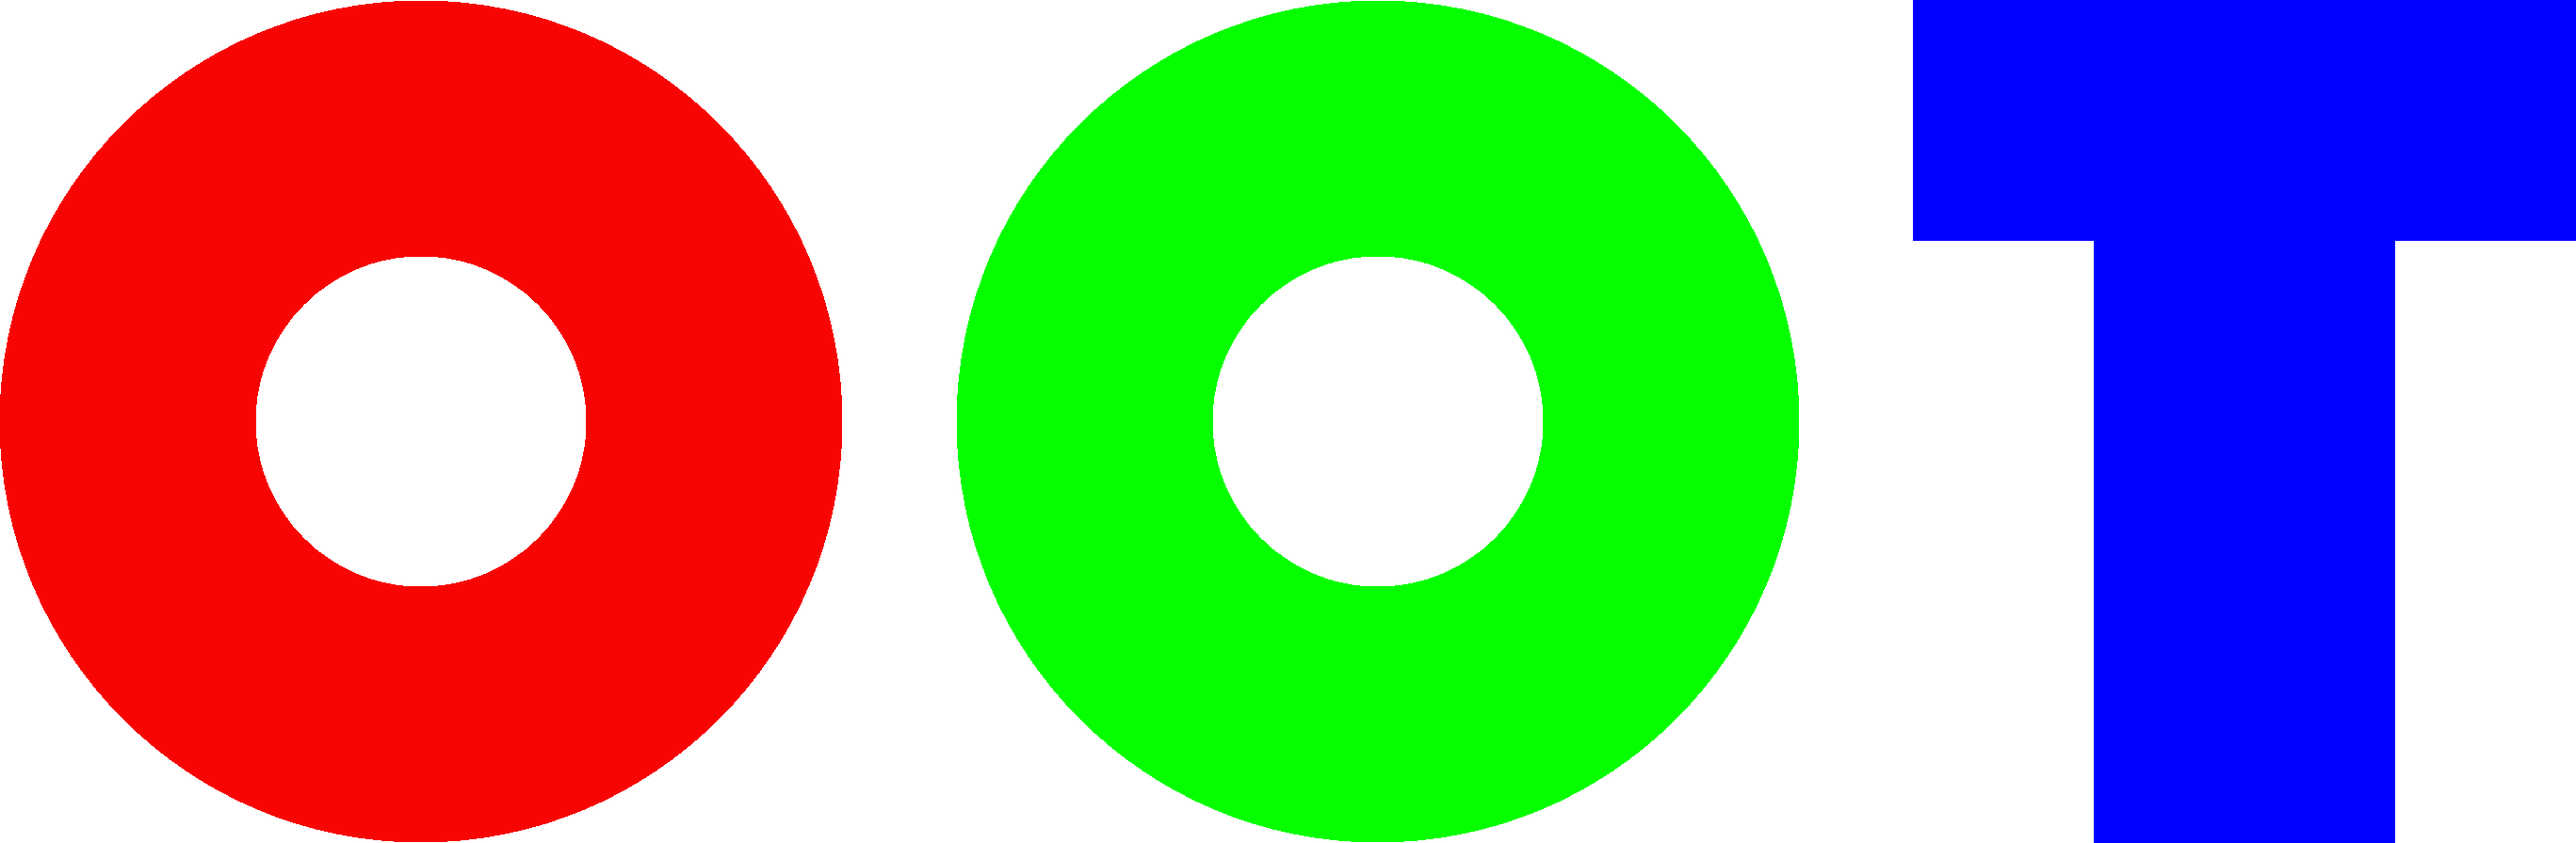
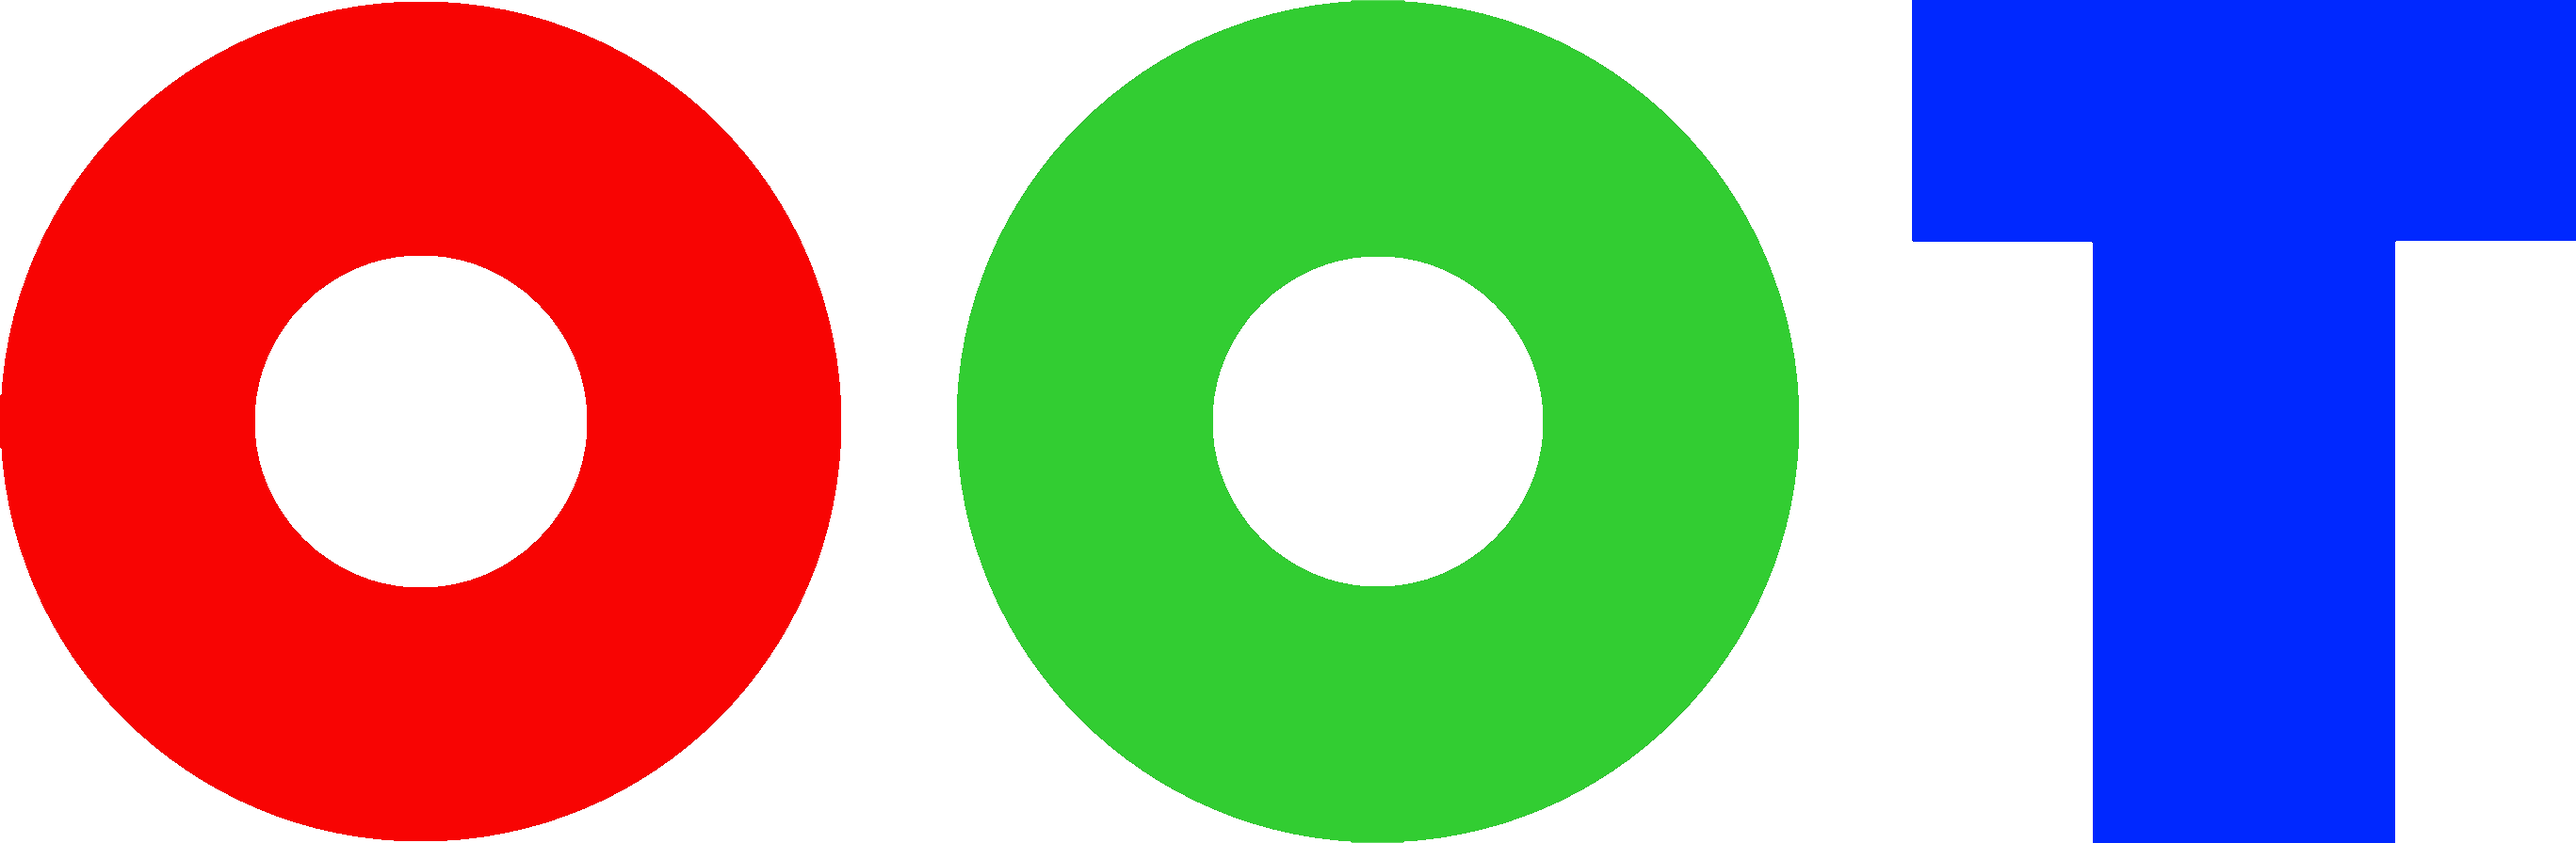
still issues with the windows application.
-looks like I'm going to have to check in from the webpage from now on.
-changing all greens and blues
-adjusted home page hamburger overlay so it'd be centered on the image.

diff --git a/scripts/script.js b/scripts/script.js
@@ -83,10 +83,18 @@ $(document).ready(function(){
 					$(this).css('margin-left', 'calc(10%)'); 
 					$(this).css('margin-right', 'calc(10% + 17px)'); //17px removed by scrollbar
 				});
-				$('.hamburgerOverlay').each(function(){
-					$(this).css('right', '0px'); 
-					$(this).css('padding-right', '17px');
-				});
+				if ( $(".homeContent").is(":visible") ) {
+					$('.hamburgerOverlay').each(function(){
+						$(this).css('right', '-8px'); 
+						$(this).css('padding-right', '0px');
+					});
+				}
+				else {
+					$('.hamburgerOverlay').each(function(){
+						$(this).css('right', '0px'); 
+						$(this).css('padding-right', '17px');
+					});
+				}
 				$('.videoOverlay').each(function(){
 					$(this).css('right', '0px'); 
 					$(this).css('padding-right', '17px');
@@ -425,12 +433,12 @@ $(document).ready(function(){
 		$(this).css('color','');
 	});
 	$(".headingLink:contains('Repertoire')").hover(function(){
-		$(this).css('color', 'lime');
+		$(this).css('color', 'limegreen');
 	},function(){
 		$(this).css('color','');
 	});
 	$(".headingLink:contains('Photos')").hover(function(){
-		$(this).css('color', 'blue');
+		$(this).css('color', 'rgb(0,40,255)');
 	},function(){
 		$(this).css('color','');
 	});
@@ -455,12 +463,12 @@ $(document).ready(function(){
 		$(this).css('color','');
 	});
 	$(".hamburgerLink:contains('Repertoire')").hover(function(){
-		$(this).css('color', 'lime');
+		$(this).css('color', 'limegreen');
 	},function(){
 		$(this).css('color','');
 	});
 	$(".hamburgerLink:contains('Photos')").hover(function(){
-		$(this).css('color', 'blue');
+		$(this).css('color', 'rgb(0,40,255)');
 	},function(){
 		$(this).css('color','');
 	});
@@ -498,7 +506,7 @@ $(document).ready(function(){
 		"-red.png",
 		"-orange.png",
 		"-yellow.png",
-		"-lime.png",
+		"-limegreen.png",
 		"-blue.png",
 		"-purple.png"    
 	];
@@ -649,8 +657,8 @@ $(document).ready(function(){
 		"red",
 		"orange",
 		"yellow",
-		"lime",
-		"blue",
+		"limegreen",
+		"rgb(0,40,255)",
 		"purple"    
 	];
 	$('.outLink').each(function(){

diff --git a/styles/style.css b/styles/style.css
@@ -107,8 +107,8 @@ a.outLink:hover {
 	0%  {background: rgba(255,0,0,.85);}
 	17%  {background: rgba(255,165,0,.85);}
 	33%  {background: rgba(255,255,0,.85);}
-	50%  {background: rgba(0,255,0,.85);}
-	67%  {background: rgba(0,0,255,.85);}
+	50%  {background: rgba(50,205,50,.85);}
+	67%  {background: rgba(0,40,255,.85);}
 	83%  {background: rgba(128,0,128,.85);}
 	100% {background: rgba(255,0,0,.85);} 
 }
@@ -116,8 +116,8 @@ a.outLink:hover {
 	0%  {background: rgba(255,0,0,.85);}
 	17%  {background: rgba(255,165,0,.85);}
 	33%  {background: rgba(255,255,0,.85);}
-	50%  {background: rgba(0,255,0,.85);}
-	67%  {background: rgba(0,0,255,.85);}
+	50%  {background: rgba(50,205,50,.85);}
+	67%  {background: rgba(0,40,255,.85);}
 	83%  {background: rgba(128,0,128,.85);}
 	100% {background: rgba(255,0,0,.85);}
 }

diff --git a/Repertoire/index.html b/Repertoire/index.html
@@ -127,7 +127,7 @@
 		<div class="headingLine">
 		</div>
 		<div class="scrollable">
-			<div class="pageTitle" style="color:lime;">
+			<div class="pageTitle" style="color:limegreen;">
 				Repertoire
 			</div>
 			<hr class="hr">
@@ -143,7 +143,7 @@
 							<th style="color:orange;">
 							Artist
 							</th>
-							<th style="color:blue;" class="hideCell">
+							<th style="color:rgb(0,40,255);" class="hideCell">
 							Arranger
 							</th>
 							<th style="color:purple;" class="hideCell">

diff --git a/Photos/index.html b/Photos/index.html
@@ -123,7 +123,7 @@
 		<div class="headingLine">
 		</div>
 		<div class="scrollable">
-			<div class="pageTitle" style="color:blue;">
+			<div class="pageTitle" style="color:rgb(0,40,255);">
 				Photos
 			</div>
 			<hr class="hr">
